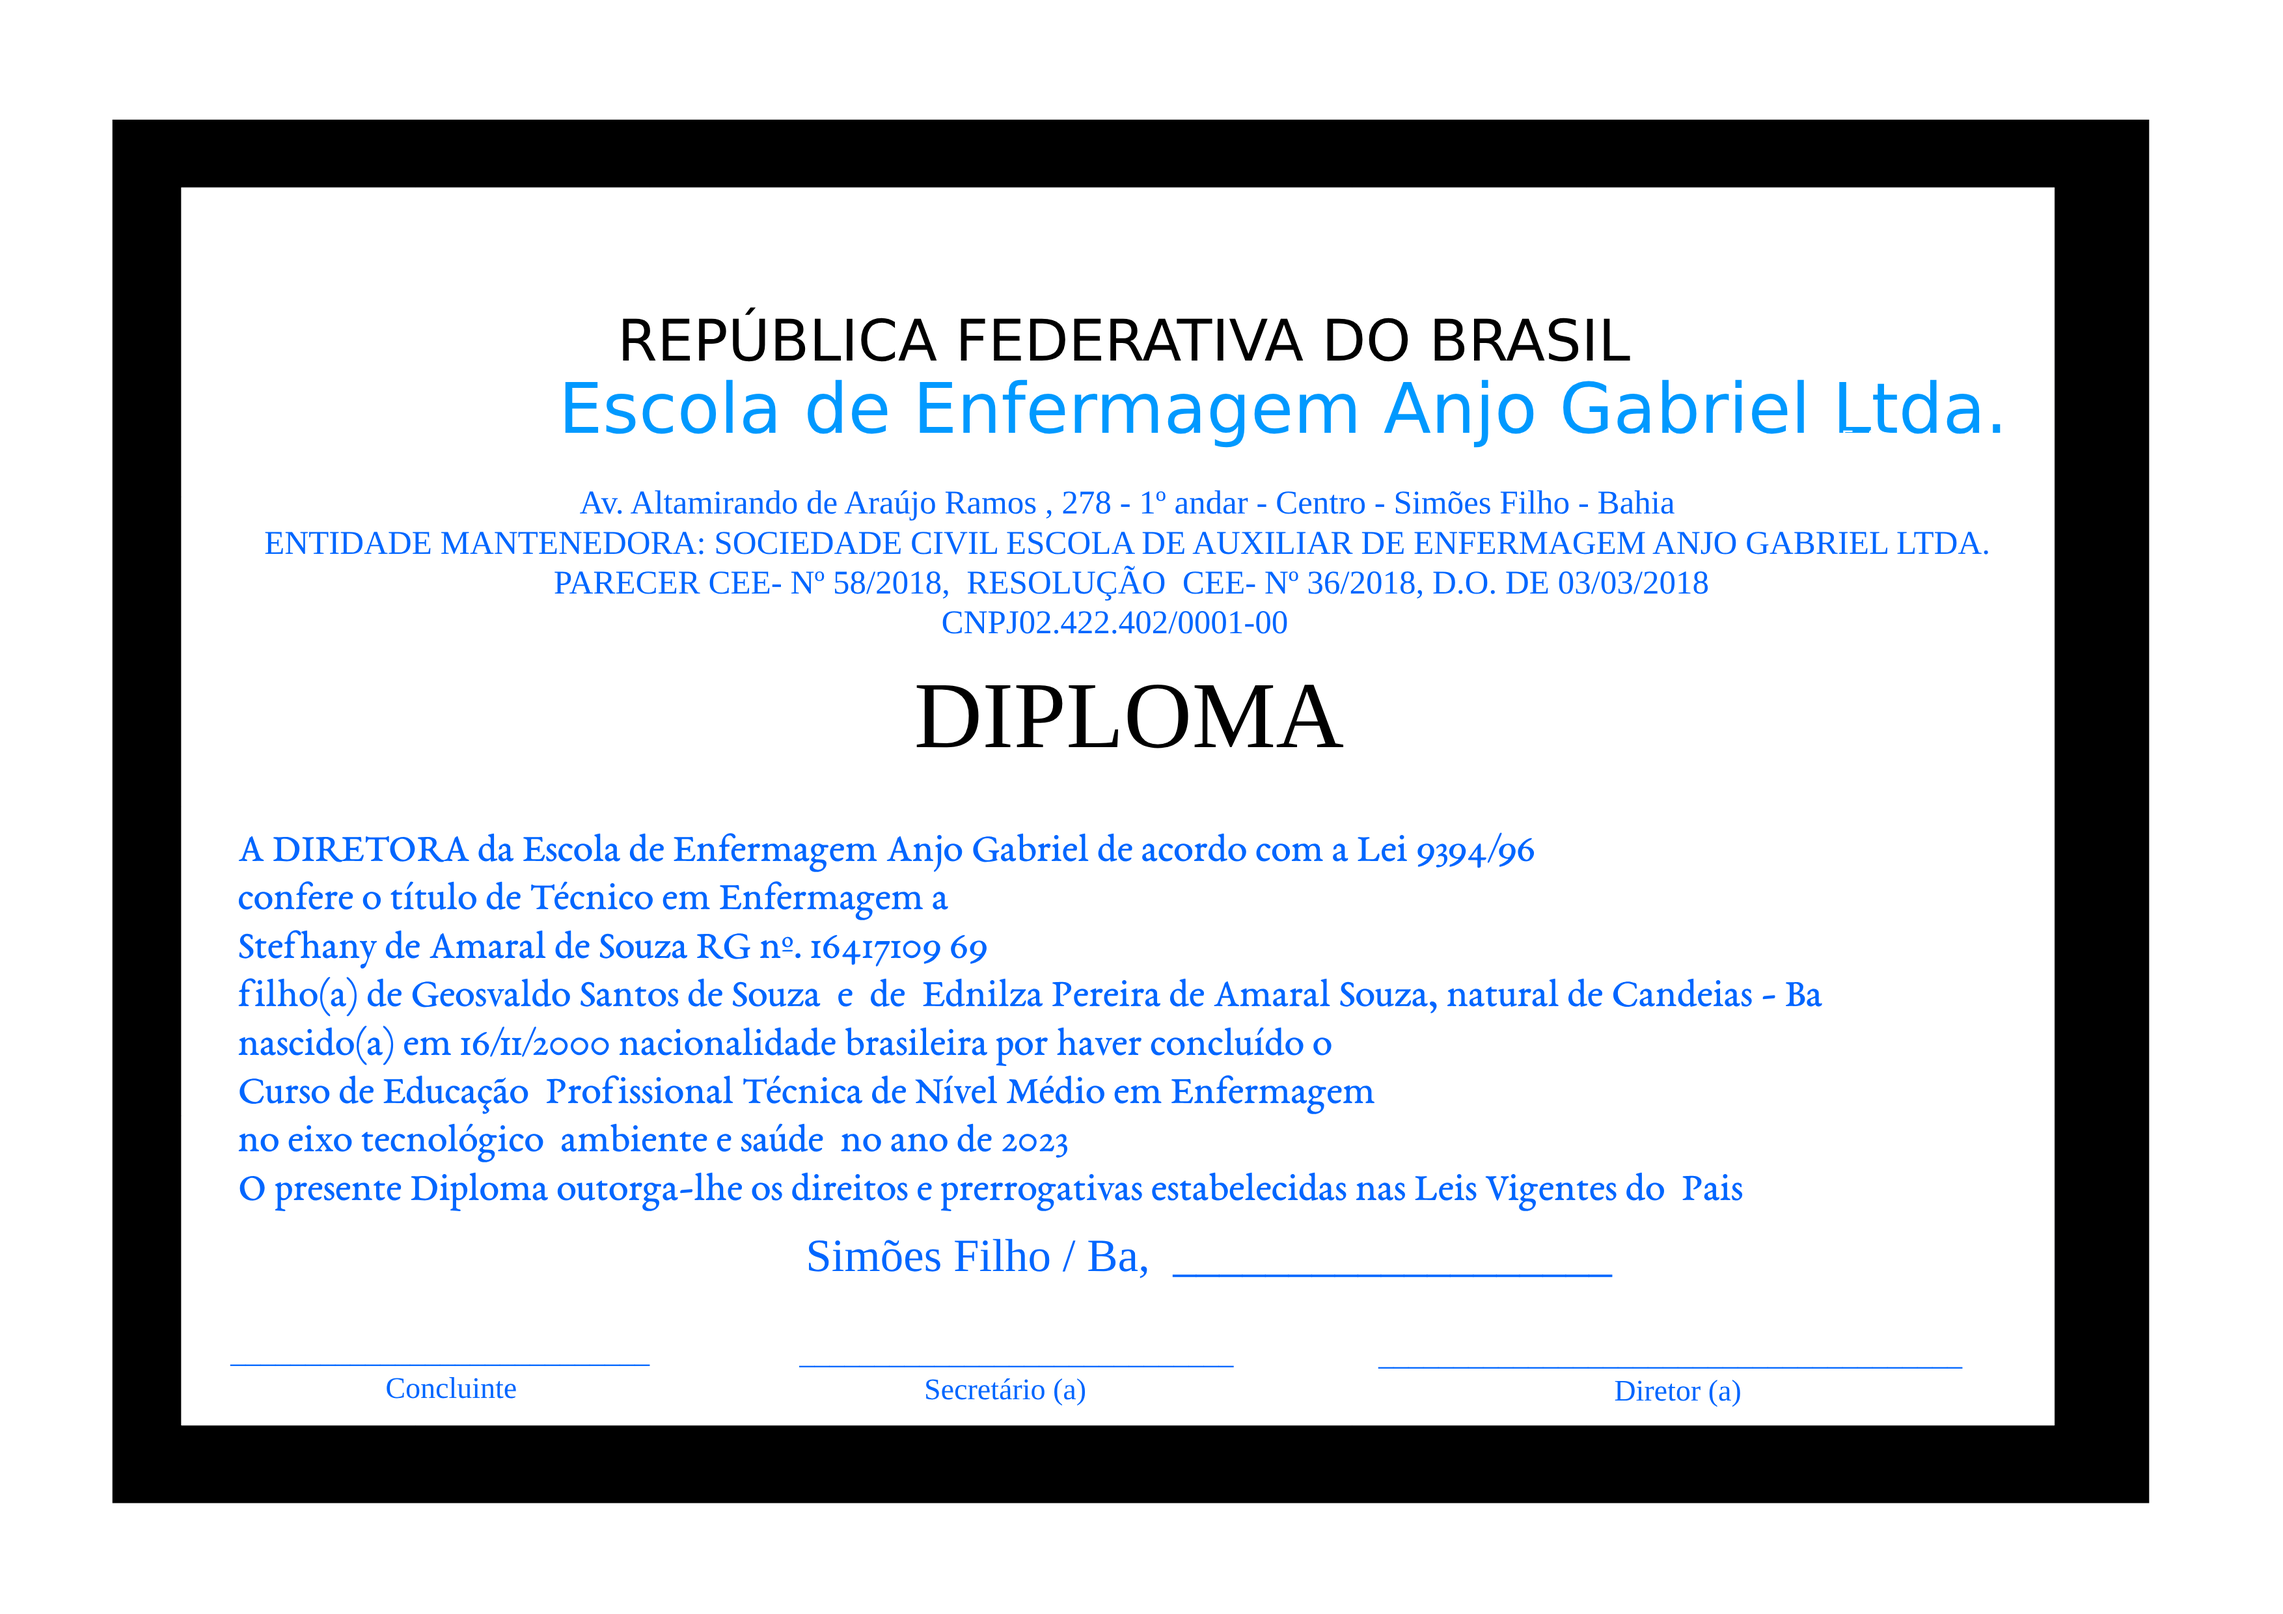
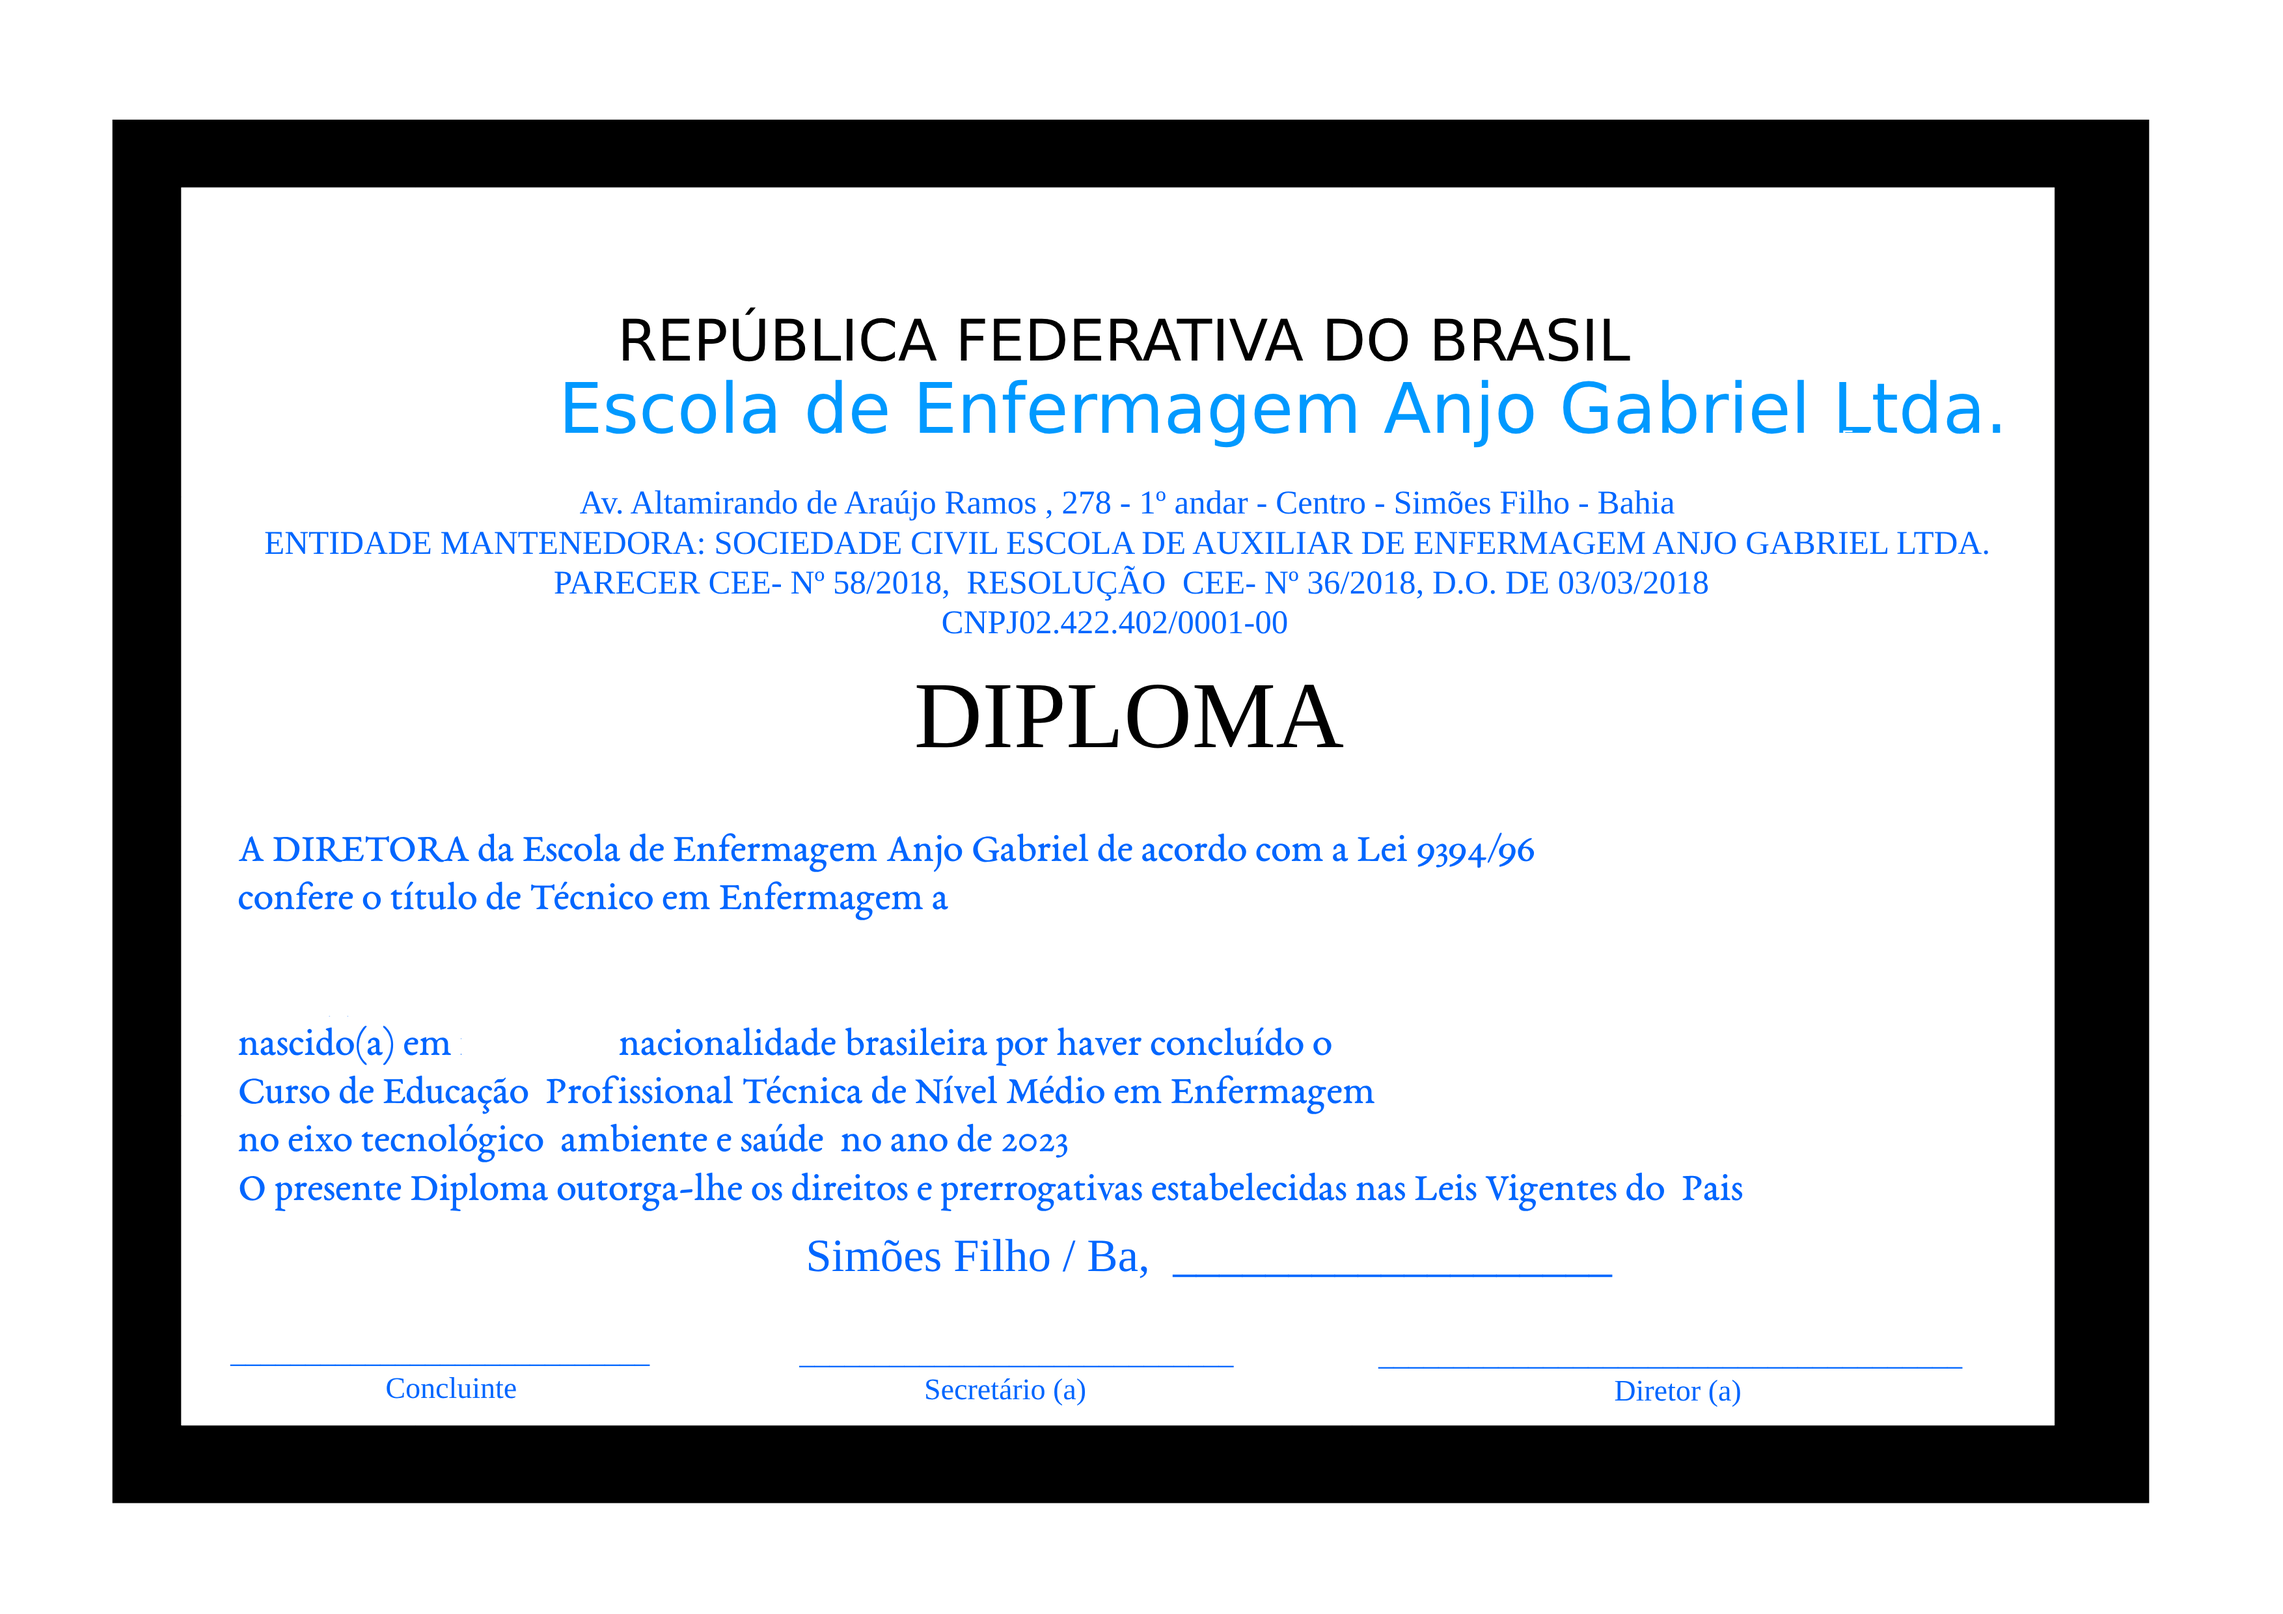
fix: adjusting print diploma

Changed region(s): [[0.0932, 0.5589, 0.6214, 0.652], [0.6525, 0.5899, 0.7457, 0.621]]

diff --git a/frontend/src/components/AddDiploma/AddDiploma.jsx b/frontend/src/components/AddDiploma/AddDiploma.jsx
@@ -44,12 +44,11 @@ const AddDiploma = () => {
     <div>
       <div className="diploma-container" ref={printRef}>
         <div className="diploma-front">
-          <h2>Diploma de {aluno.nome}</h2>
-          <p className="info nome">Nome: {aluno.nome}</p>
-          <p className="info rg">RG: {aluno.rg}</p>
-          <p className="info pai">Nome do Pai: {aluno.pai}</p>
-          <p className="info mae">Nome da Mãe: {aluno.mae}</p>
-          <p className="info nascimento">Data de Nascimento: {new Date(aluno.data_nascimento).toLocaleDateString()}</p>
+          <p className="info nome">{aluno.nome}</p>
+          <p className="info rg">RG nº, {aluno.rg}</p>
+          <p className="info pai">{aluno.pai} e </p>
+          <p className="info mae">{aluno.mae}</p>
+          <p className="info nascimento">{new Date(aluno.data_nascimento).toLocaleDateString()}</p>
           <p className="info nacionalidade">Nacionalidade: {aluno.nacionalidade}</p>
         </div>
         <div className="diploma-back">
